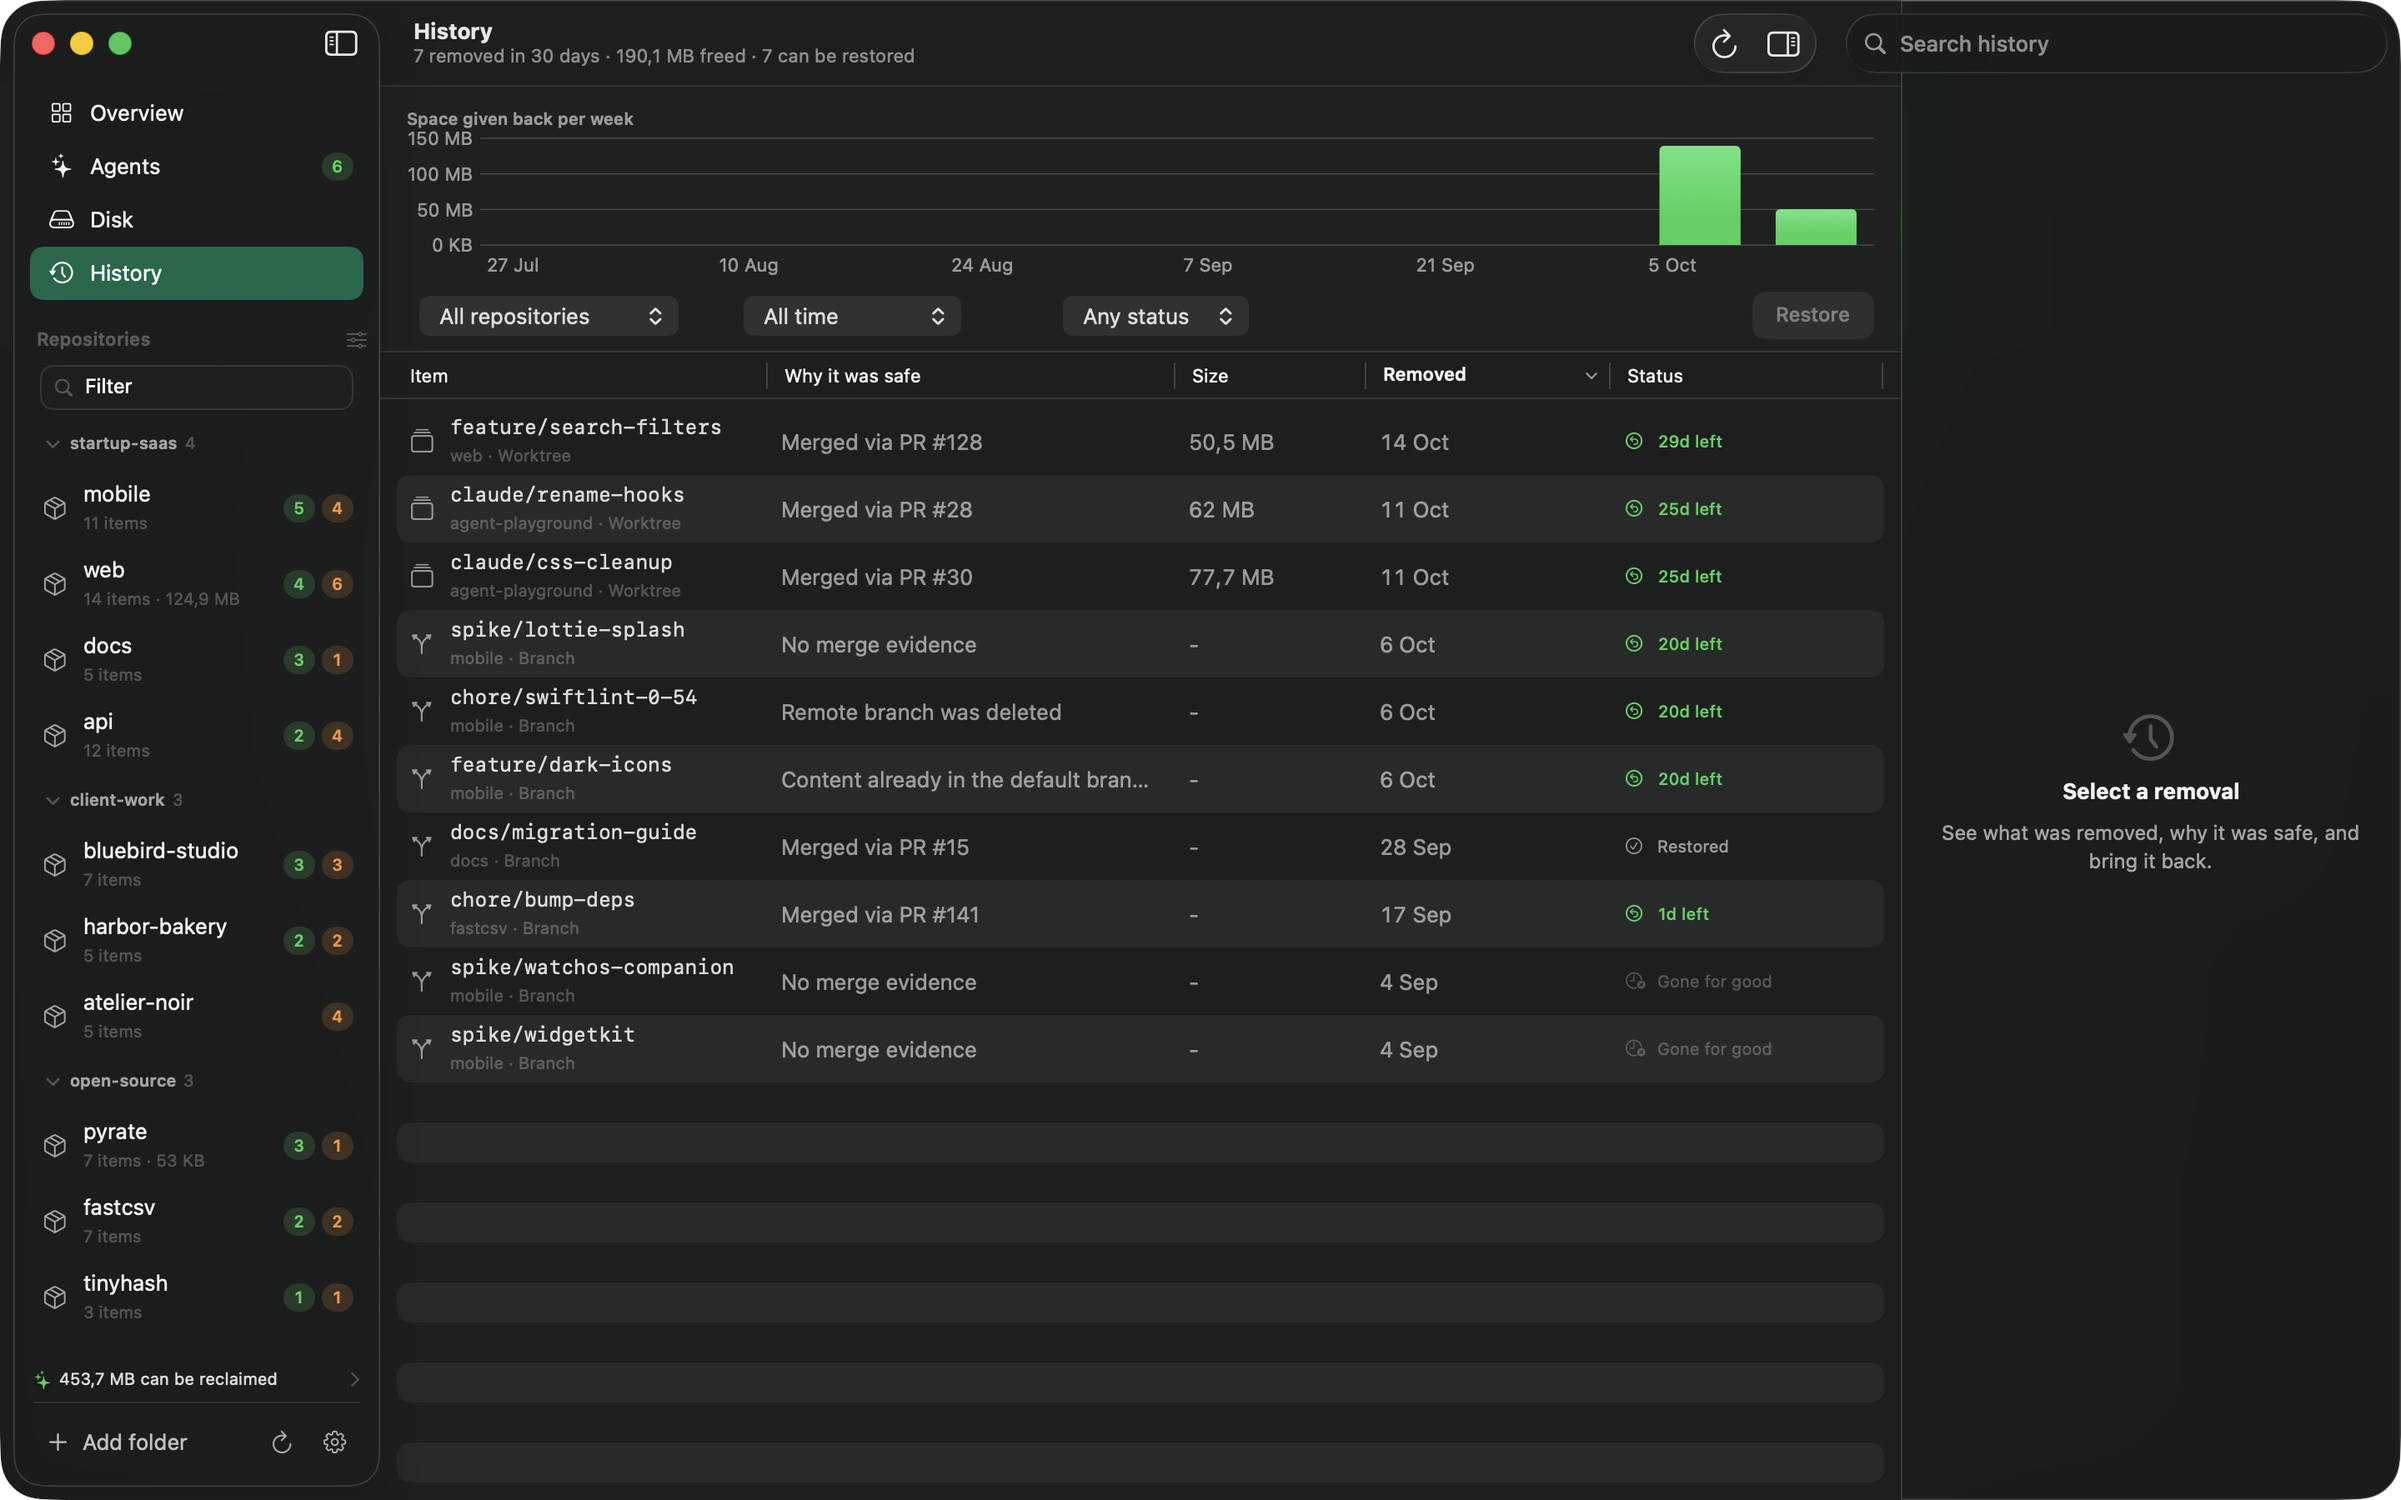
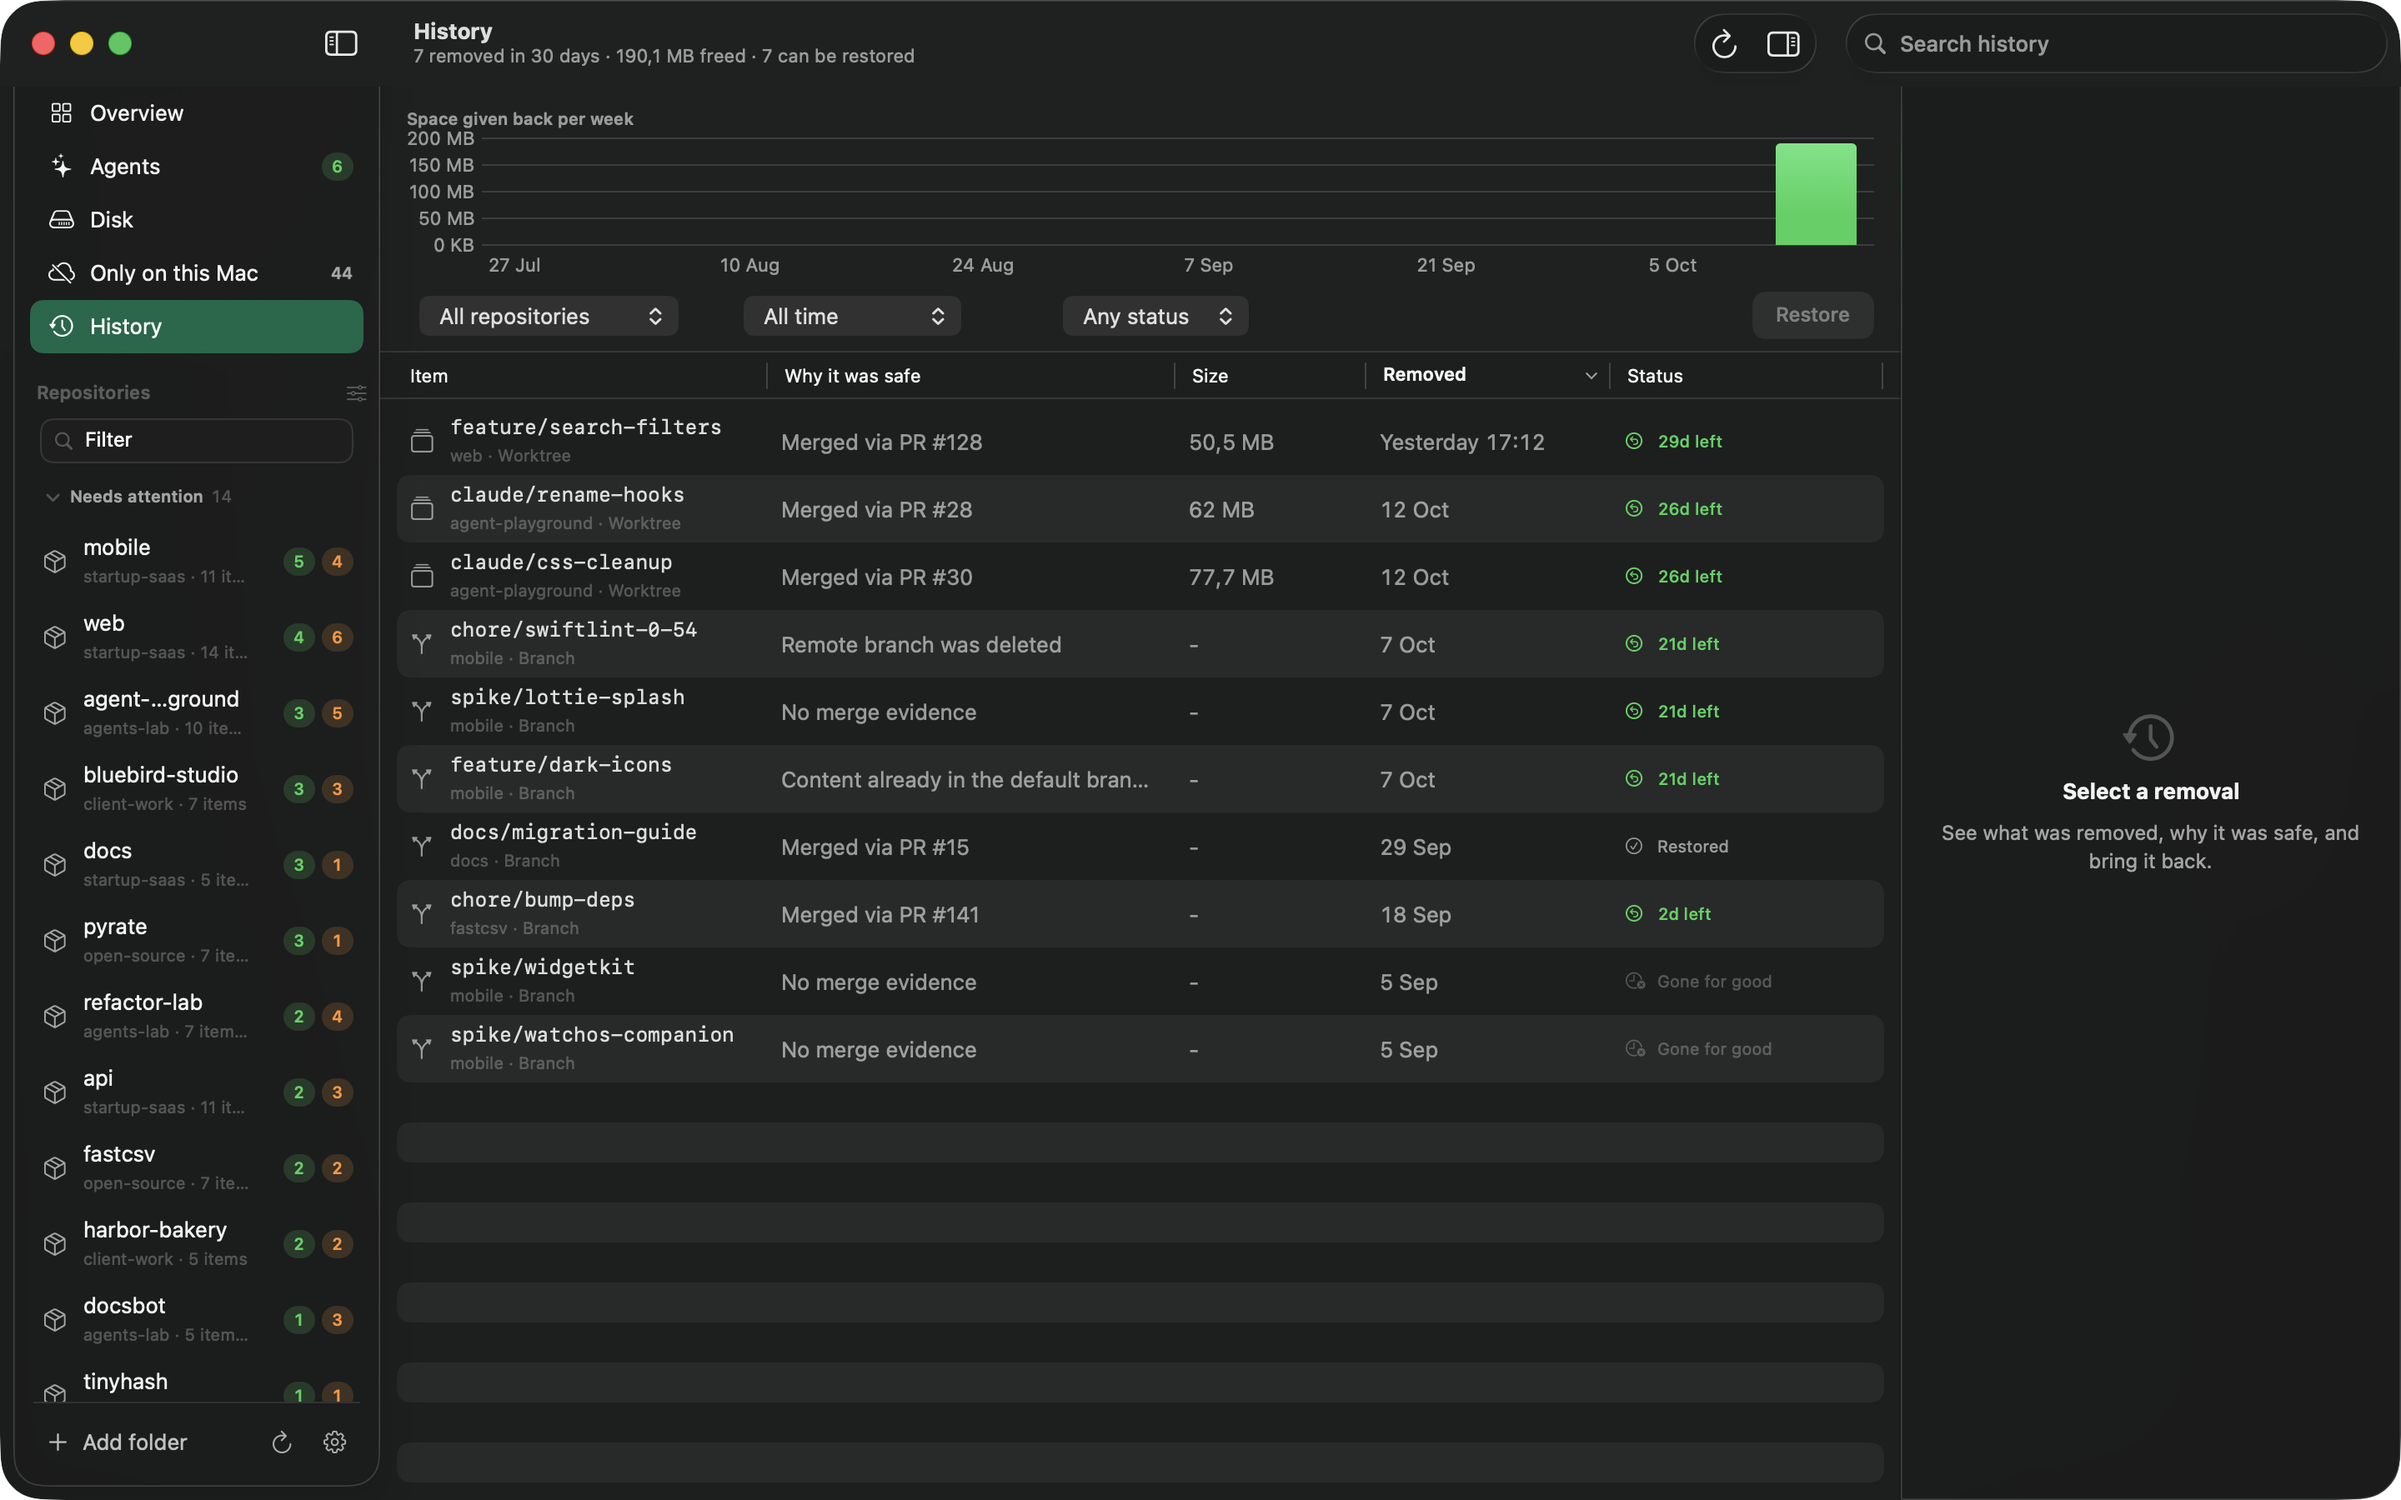
docs: refreshed screenshots with the new sidebar, only on this mac page, readme and roadmap; site: tour chapter, faq, cli install, safety link

diff --git a/App/LopperApp/Preview/ScreenshotMode.swift b/App/LopperApp/Preview/ScreenshotMode.swift
@@ -15,7 +15,11 @@ enum ScreenshotMode {
     }
 
     private static let shots: [Shot] = [
-        Shot(name: "overview") { $0.route = .overview },
+        // The hero shot is about what can be reclaimed; the "only on this Mac" banner has its own page below.
+        Shot(name: "overview") { model in
+            model.route = .overview
+            model.debugHideLocalOnly(true)
+        },
         Shot(name: "repository") { model in
             guard let repo = model.snapshots.first(where: { $0.repo.name == "web" }) ?? model.snapshots.first else { return }
             model.route = .repo(repo.repo.id)
@@ -33,6 +37,7 @@ enum ScreenshotMode {
             model.route = .disk
             model.diskGrouping = .map
         },
+        Shot(name: "only-here") { $0.route = .onlyHere },
         Shot(name: "history") { $0.route = .history },
     ]
 
@@ -43,7 +48,8 @@ enum ScreenshotMode {
 
         // Wait for the scan and the size measurements so the numbers on the pages are the real ones.
         for _ in 0..<180 {
-            if model.overviewState == .ready, case .ready = model.artifactPhase { break }
+            // Every worktree must be measured, or the sidebar's agent count would change from one shot to the next.
+            if model.overviewState == .ready, case .ready = model.artifactPhase, model.agentsSummary.measuring == 0 { break }
             try? await Task.sleep(for: .milliseconds(500))
         }
         try? await Task.sleep(for: .seconds(3))
@@ -62,6 +68,7 @@ enum ScreenshotMode {
             NSApp.appearance = NSAppearance(named: appearanceName)
             for shot in shots {
                 model.focusedRowID = nil
+                model.debugHideLocalOnly(false)
                 shot.prepare(model)
                 try? await Task.sleep(for: .seconds(2.5))
                 if let data = capture(window) {

diff --git a/App/LopperApp/Model/AppModel.swift b/App/LopperApp/Model/AppModel.swift
@@ -521,6 +521,21 @@ final class AppModel {
     /// False until the first look finished, so an empty list is not read as "everything is backed up" too early.
     private(set) var localOnlyLoaded = false
 
+    #if DEBUG
+    @ObservationIgnored private var hiddenLocalOnly: [LocalOnlyItem]?
+
+    /// Screenshot mode only: takes the list away for one shot and puts it back for the next.
+    func debugHideLocalOnly(_ hide: Bool) {
+        if hide, hiddenLocalOnly == nil {
+            hiddenLocalOnly = localOnly
+            localOnly = []
+        } else if !hide, let items = hiddenLocalOnly {
+            localOnly = items
+            hiddenLocalOnly = nil
+        }
+    }
+    #endif
+
     func scanLocalOnly() async {
         let found = await client.localOnlyWork(for: snapshots)
         guard !Task.isCancelled else { return }

diff --git a/website/src/data/site.ts b/website/src/data/site.ts
@@ -24,6 +24,8 @@ export const links = {
   license: `${repo}/blob/main/LICENSE`,
   issues: `${repo}/issues`,
   install: `${repo}/blob/main/docs/install.md`,
+  safety: `${repo}/blob/main/docs/safety.md`,
+  cli: `${repo}/blob/main/docs/cli.md`,
   author: 'https://zawalid.com',
   github: 'https://github.com/Zawalid',
   x: 'https://x.com/Zawaalid',

diff --git a/docs/roadmap.md b/docs/roadmap.md
@@ -19,7 +19,7 @@ leave worktrees behind (Claude Code, Cursor, Codex).
 
 ## 2. Information architecture
 
-Sidebar: **Overview**, **Agents**, **Disk**, **History**, then **Repositories**. Footer: Add folder, Settings.
+Sidebar: **Overview**, **Agents**, **Disk**, **Only on this Mac**, **History**, then **Repositories**. Footer: Add folder, Settings.
 
 | Page | Purpose | Status |
 |---|---|---|
@@ -31,21 +31,24 @@ Sidebar: **Overview**, **Agents**, **Disk**, **History**, then **Repositories**.
 | Settings | See section 4 | partial |
 | Agents | Worktrees made by AI tools: age, unmerged work, size, finished or abandoned, reclaim all finished | done |
 | Disk | Where space goes: generated folders by project, kind and as a map, developer caches, free space, clear to the Trash with undo, optional reinstall | done |
+| Only on this Mac | Unpushed commits, uncommitted changes in worktrees, stashes and half-done operations, with a copyable push command. Never removes anything | done |
 | Rules and schedule | "Delete branches merged more than 14 days ago", run weekly, digest notification | planned |
 | What's new, About, Updates | Release notes, version, check for updates | planned |
 
 ## 3. Feature backlog
 
 ### Trust and safety (core, free)
-- Remote branch cleanup, opt-in, with the same evidence rules and an undo (`planned`)
+- Remote branch cleanup, opt-in, with the same evidence rules and an undo (`built, parked on a branch until its own audit`)
 - Stash awareness and cleanup (`planned`)
 - Per-repository protected patterns and default branch override in the UI (`planned`)
 - "Explain this verdict" with the exact git evidence, copyable (`idea`)
 - Bare repositories and submodules shown correctly (`planned`)
-- Git missing and denied-folder setup screens (`planned`)
+- Git missing and denied-folder setup screens (`done`)
+- Diagnostics report and local event log, nothing sent (`done`)
+- Safety audit with a written record, see docs/safety.md (`done`)
 
 ### Insight
-- Work that exists only on this Mac: unpushed commits, unmerged worktrees, one list (`planned`)
+- Work that exists only on this Mac: unpushed commits, unmerged worktrees, one list (`done`)
 - Branch age, ahead and behind, stale threshold used in the UI (`planned`)
 - Reclaimed over time, small and honest (`idea`)
 
@@ -53,7 +56,7 @@ Sidebar: **Overview**, **Agents**, **Disk**, **History**, then **Repositories**.
 - Rules engine and schedule, with a dry-run preview before the first automatic run (`planned`)
 - Notifications: weekly digest, "an agent worktree finished" (`planned`)
 - Reacting to merges (file-system events) instead of polling (`idea`)
-- `lop` command line tool, designed as a first-class product, sharing the engine (`planned`)
+- `lop` command line tool, designed as a first-class product, sharing the engine (`done`)
 - Shortcuts and App Intents (`idea`)
 
 ### Integrations
@@ -106,7 +109,7 @@ These are cheap now and expensive later.
 | 1 | Foundations | Settings architecture, localization, entitlements seam, diagnostics, icon and naming check |
 | 2 | Differentiators | Agents page, Disk page with in-place artifact cleanup, richer History |
 | 3 | Automation | Rules and schedule, notifications, the `lop` CLI |
-| 4 | Ship | Signing, notarization, updates, website, licensing, pricing, private beta |
+| 4 | Ship | Updates, website, licensing, pricing. Releases stay unsigned, with a documented first launch |
 | 5+ | Reach | Remote branches, GitLab, stash, more tools, teams (only if asked for) |
 
 ## 7. Open decisions

diff --git a/README.md b/README.md
@@ -74,9 +74,25 @@ back at their exact commit.
 <tr>
 <td width="50%" valign="top">
 
+**Only on this Mac**<br>
+Unpushed commits, uncommitted changes in worktrees, stashes and half-done rebases: the work that has no copy anywhere
+else, listed so you can back it up. It never removes or pushes anything.
+
+</td>
+<td width="50%" valign="top">
+
 **Rules, offer only**<br>
 "Branches merged more than 14 days ago", "projects untouched for 60 days". Rules suggest, a weekly digest reminds you,
 and nothing is ever removed without you confirming a list.
+
+</td>
+</tr>
+<tr>
+<td width="50%" valign="top">
+
+**Command line**<br>
+`lop` runs the same engine in the terminal, with `--json` for scripts and AI agents, and shares your folders and undo
+history with the app.
 
 </td>
 <td width="50%" valign="top">
@@ -111,6 +127,19 @@ dark appearance. No account, no analytics, no network calls of its own.
   <source media="(prefers-color-scheme: dark)" srcset="docs/images/history-dark.png">
   <img alt="History: every removal, why it was safe, and how long it can be restored" src="docs/images/history-light.png">
 </picture></td>
+</tr>
+<tr>
+<td width="50%"><picture>
+  <source media="(prefers-color-scheme: dark)" srcset="docs/images/only-here-dark.png">
+  <img alt="Only on this Mac: unpushed commits, uncommitted changes and stashes, by repository" src="docs/images/only-here-light.png">
+</picture></td>
+<td width="50%" valign="middle">
+
+**Nothing here is ever removed.**<br>
+This page lists the work that exists only on your Mac, with a copyable `git push` for each branch. Lopper reads it and
+never pushes for you.
+
+</td>
 </tr>
 </table>
 
@@ -156,6 +185,8 @@ lop scan                 # what can be removed, repository by repository
 lop why feature/old-2    # the git evidence for one branch
 lop clean                # review the plan, confirm, remove; undo with `lop undo --last`
 lop agents               # worktrees left by Claude Code, Cursor, Codex and Conductor
+lop risk                 # work that exists only on this Mac: unpushed commits, stashes, uncommitted changes
+lop diagnostics          # a report to paste into a bug report; nothing is sent
 ```
 
 Every command has `--json` for scripts and AI agents. See the [command line guide](docs/cli.md).
@@ -243,8 +274,8 @@ In `~/Library/Application Support/Lopper`: your settings as a readable JSON file
 
 ## Roadmap
 
-Remote branch cleanup, stash handling, GitLab and Bitbucket merge detection, a `lop` command line tool and in-app updates
-are next. The full list is in the [roadmap](docs/roadmap.md).
+Remote branch cleanup, stash cleanup, GitLab and Bitbucket merge detection and in-app updates are next. The full list is
+in the [roadmap](docs/roadmap.md).
 
 ## Contributing
 
